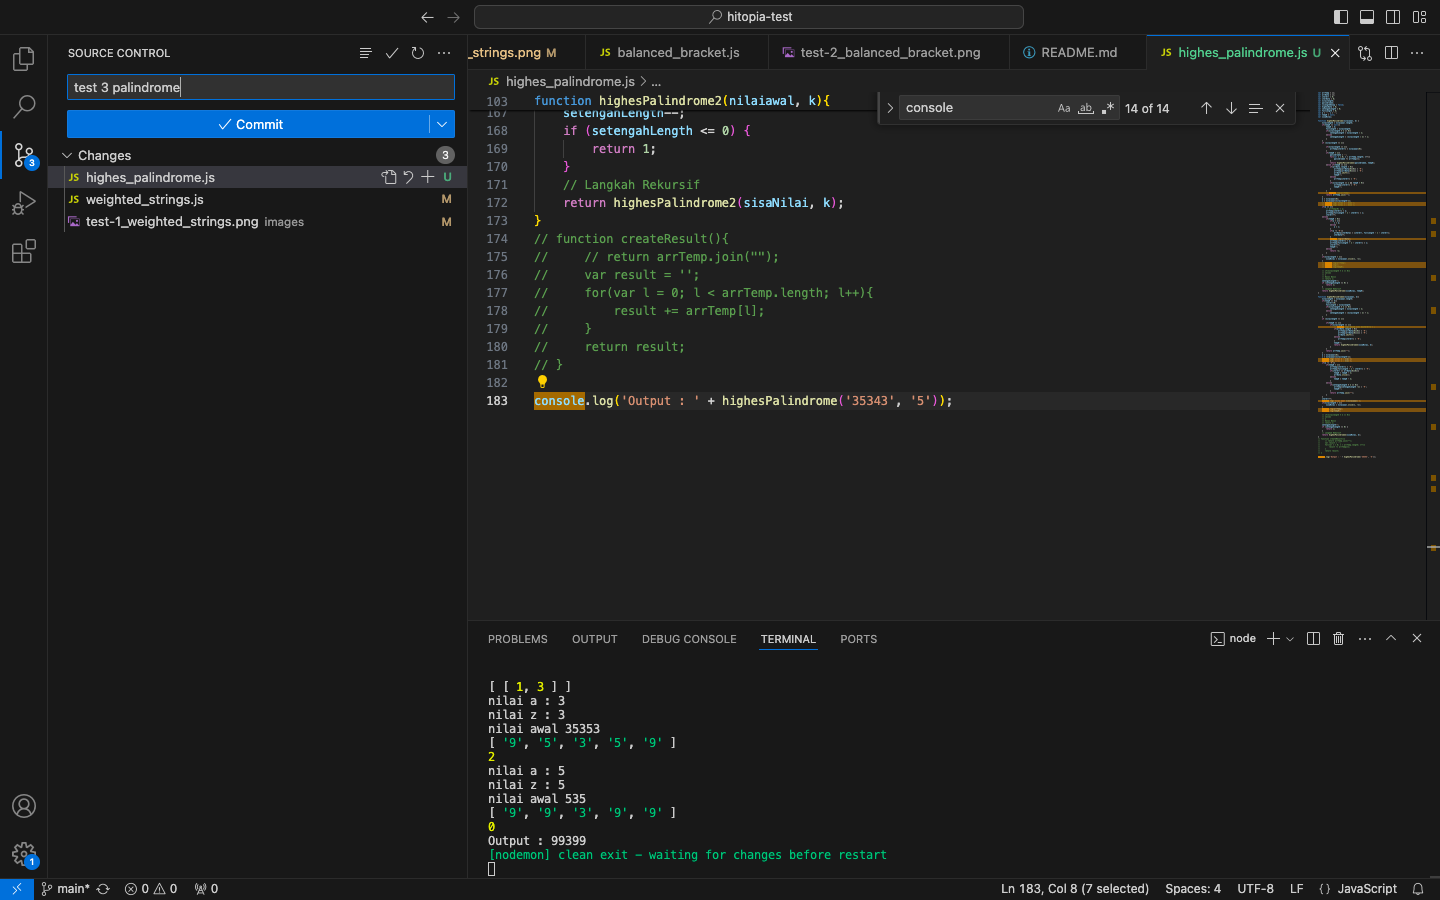
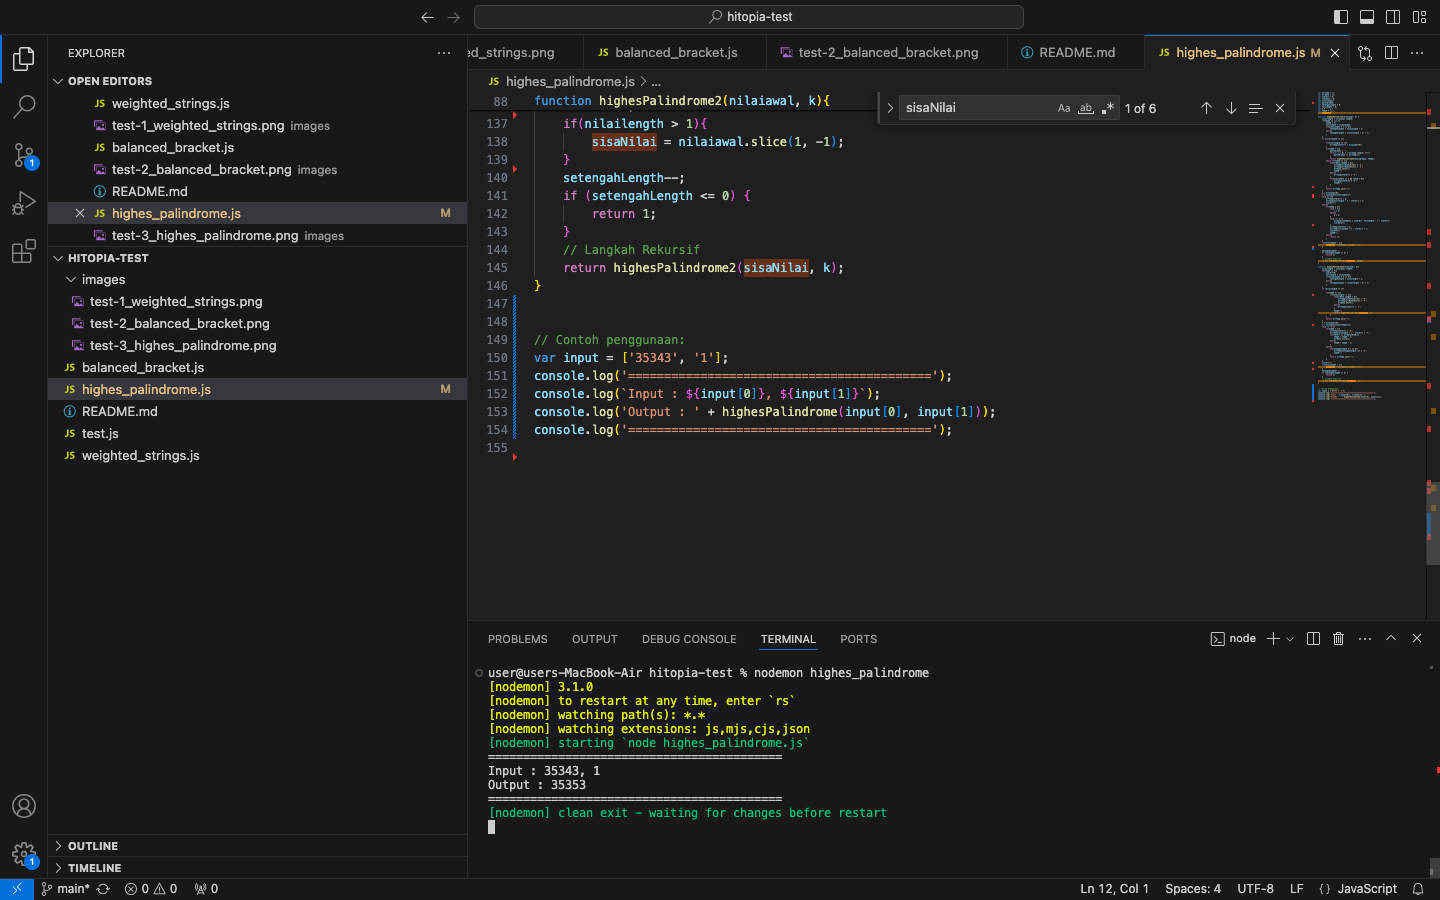
test-3_highes_palindrome

diff --git a/highes_palindrome.js b/highes_palindrome.js
@@ -4,8 +4,6 @@ var iterArr = 0;
 var iterData = 0;
 var nilailength;
 var palindrome2;
-var isLengthGenap = false;
-var highesData = 0;
 var setengahLength = 0;
 var fullLength = 0;
 var a = '', z = '';
@@ -29,10 +27,7 @@ function highesPalindrome(nilaiawal, k) {
             arrTemp[iterArr] = nilaiawal[0];
         }
         if(tempK > 1){
-            palindrome2 = '';
-            for(var l = 0; l < arrTemp.length; l++){
-                palindrome2 += arrTemp[l];
-            }
+            palindrome2 = arrTemp.join("");
             return highesPalindrome2(palindrome2, tempK);
         }else if(tempK == 1){
             if(arrData.length > 0){
@@ -48,15 +43,11 @@ function highesPalindrome(nilaiawal, k) {
                 tempK--;
             }
         }
-        // console.log(arrTemp);
         return arrTemp.join("");
     }
     a = nilaiawal[0];
     z = nilaiawal[nilailength-1];
-    // console.log(`nilai a : ${a}`);
-    // console.log(`nilai z : ${z}`);
     if(a == z){
-        // arrTemp[0] = a;
         arrTemp[iterArr] = a;
         arrTemp[fullLength - 1 - iterArr] = z;
         iterArr++;
@@ -71,7 +62,6 @@ function highesPalindrome(nilaiawal, k) {
                 arrData[iterData] = [iterArr, fullLength - 1 - iterArr];
                 iterData++;
             }
-            console.log(arrData);
             arrTemp[iterArr] = a;
             arrTemp[fullLength - 1 - iterArr] = z;
             iterArr++;
@@ -83,18 +73,14 @@ function highesPalindrome(nilaiawal, k) {
     if(nilailength > 1){
         sisaNilai = nilaiawal.slice(1, -1);
     }
-    // console.log(arrTemp);
-    // console.log();
-    // console.log(tempK);
-    
-    // if(nilailength % 2 == 0){
-    // }else{
-    // }
-    // Kasus Basis
-    // return 1;
+
     setengahLength--;
     if (setengahLength <= 0) {
-        return 1;
+        if(tempK > 1){
+            palindrome2 = arrTemp.join("");
+            return highesPalindrome2(palindrome2, tempK);
+        }
+        return arrTemp.join("");
     }
     // Langkah Rekursif
     return highesPalindrome(sisaNilai, tempK);
@@ -115,7 +101,6 @@ function highesPalindrome2(nilaiawal, k){
 
         if(tempK >= 1){
             if(nilailength == 1){
-                // console.log(`masuk sini ${iterArr}`) ;
                 if(arrData.length > 0){
                     arrTemp[arrData[0][0]] = '9';
                     arrTemp[arrData[0][1]] = '9';
@@ -131,17 +116,17 @@ function highesPalindrome2(nilaiawal, k){
     }
     a = nilaiawal[0];
     z = nilaiawal[nilailength-1];
-    console.log(`nilai a : ${a}`);
-    console.log(`nilai z : ${z}`);
     if(a != '9'){
         if(tempK > 1){
             arrTemp[iterArr] = '9';
             arrTemp[fullLength - 1 - iterArr] = '9';
-            if(iterArr == arrData[0][0]){
-                tempK = tempK - 2;
-                arrData.slice();
-            }else{
-                tempK = tempK - 2;
+            if(arrData.length > 0){
+                if(iterArr == arrData[0][0]){
+                    tempK = tempK--;
+                    arrData.slice();
+                }else{
+                    tempK = tempK - 2;
+                }
             }
         }else{
             if(setengahLength % 2 == 0){
@@ -152,32 +137,24 @@ function highesPalindrome2(nilaiawal, k){
         }
     }
     iterArr++;
-    console.log(`nilai awal ${nilaiawal}`);
     if(nilailength > 1){
         sisaNilai = nilaiawal.slice(1, -1);
     }
-    console.log(arrTemp);
-    console.log(tempK);
-    
-    // if(nilailength % 2 == 0){
-    // }else{
-    // }
-    // Kasus Basis
-    // return 1;
     setengahLength--;
     if (setengahLength <= 0) {
-        return 1;
+        return arrTemp.join("");
     }
     // Langkah Rekursif
     return highesPalindrome2(sisaNilai, k);
 }
-// function createResult(){
-//     // return arrTemp.join("");
-//     var result = '';
-//     for(var l = 0; l < arrTemp.length; l++){
-//         result += arrTemp[l];
-//     }
-//     return result;
-// }
 
-console.log('Output : ' + highesPalindrome('35343', '5'));
+
+// Contoh penggunaan:
+// var input = ['3943', '1'];
+// var input = ['932239', '2'];
+// var input = ['35343', '2'];
+// var input = ['35343', '3'];
+console.log('==========================================');
+console.log(`Input : ${input[0]}, ${input[1]}`);
+console.log('Output : ' + highesPalindrome(input[0], input[1]));
+console.log('==========================================');
